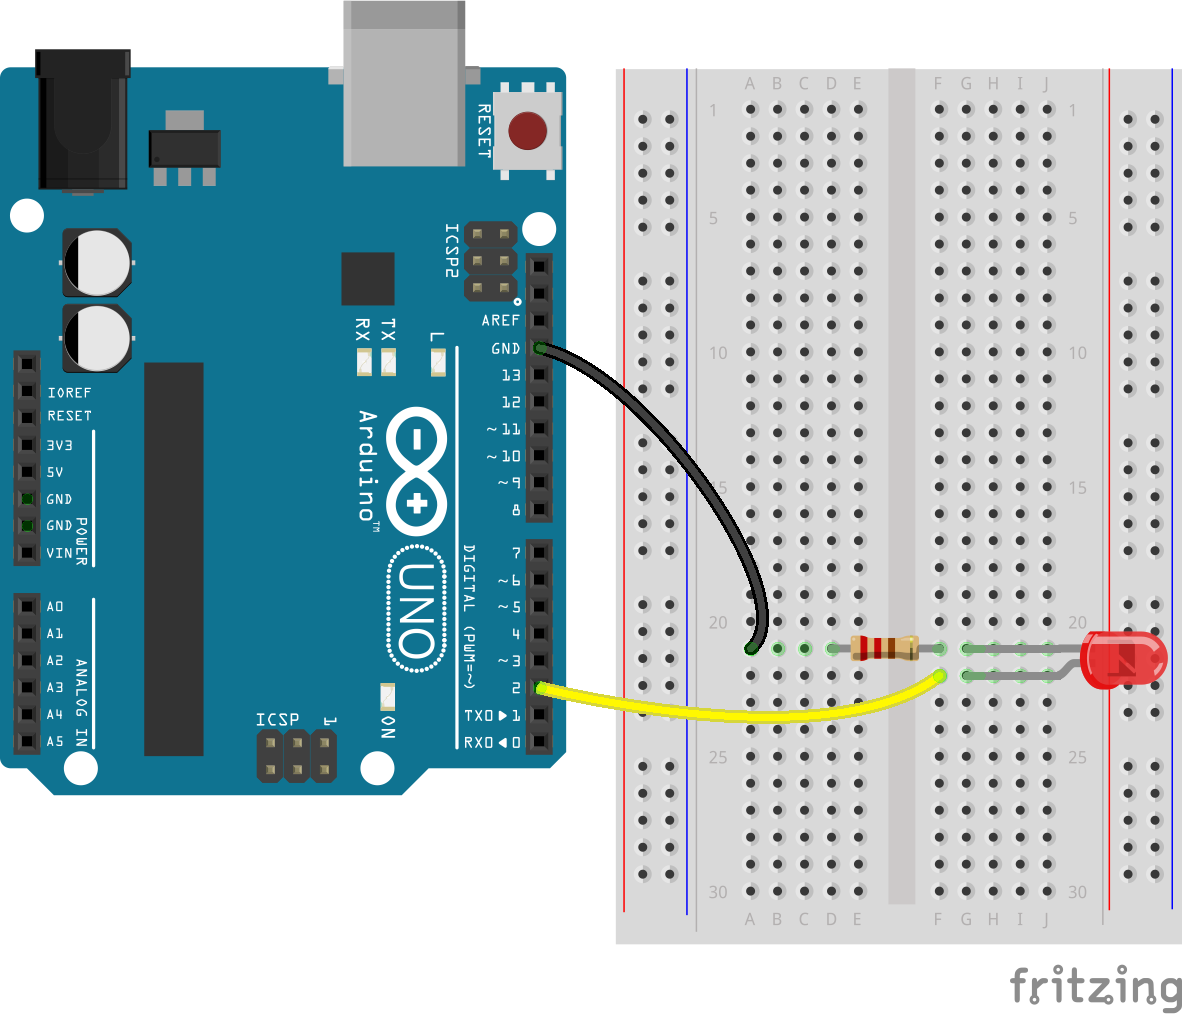
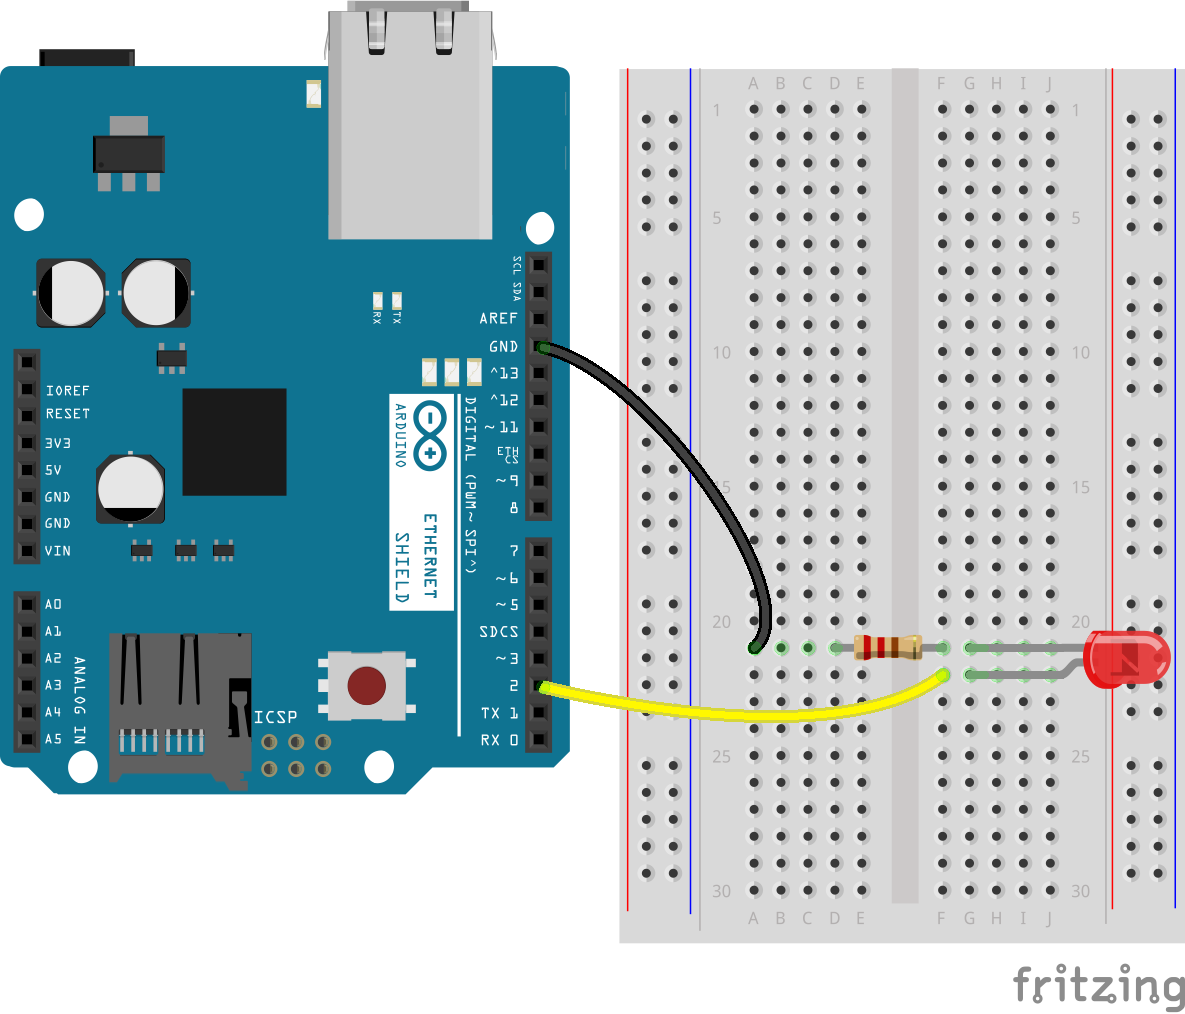
Updated sketch in Arduino LED On/Off TCP Example to include Ethernet Shield. Updated text accordingly.

diff --git a/arduino-led-onoff-tcp.html b/arduino-led-onoff-tcp.html
@@ -58,10 +58,10 @@ Copyright (c) 2013-2014 Evothings AB
 		<li>Resistor 2200 Ohm</li>
 	</ul>
 
-	<p>Here is the sketch:</p>
+	<p>Here is a sketch using the Arduino Ethernet shield:</p>
 	<img class="img-example-arduino-sketch" src="images/arduino-led-tcp-sketch.png"/>
 
-	<p>Here is a photo of a board configured to work with this example. Note that output pin 2 is used (it may look like pin 3 in the photo).</p>
+	<p>Here is a photo of a board configured to work with this example, using an Arduino WiFi shield. Note that output pin 2 is used (it may look like pin 3 in the photo).</p>
 	<img class="img-example-arduino-sketch" src="images/arduino-led-tcp-board-photo.jpg"/>
 </div>
 
